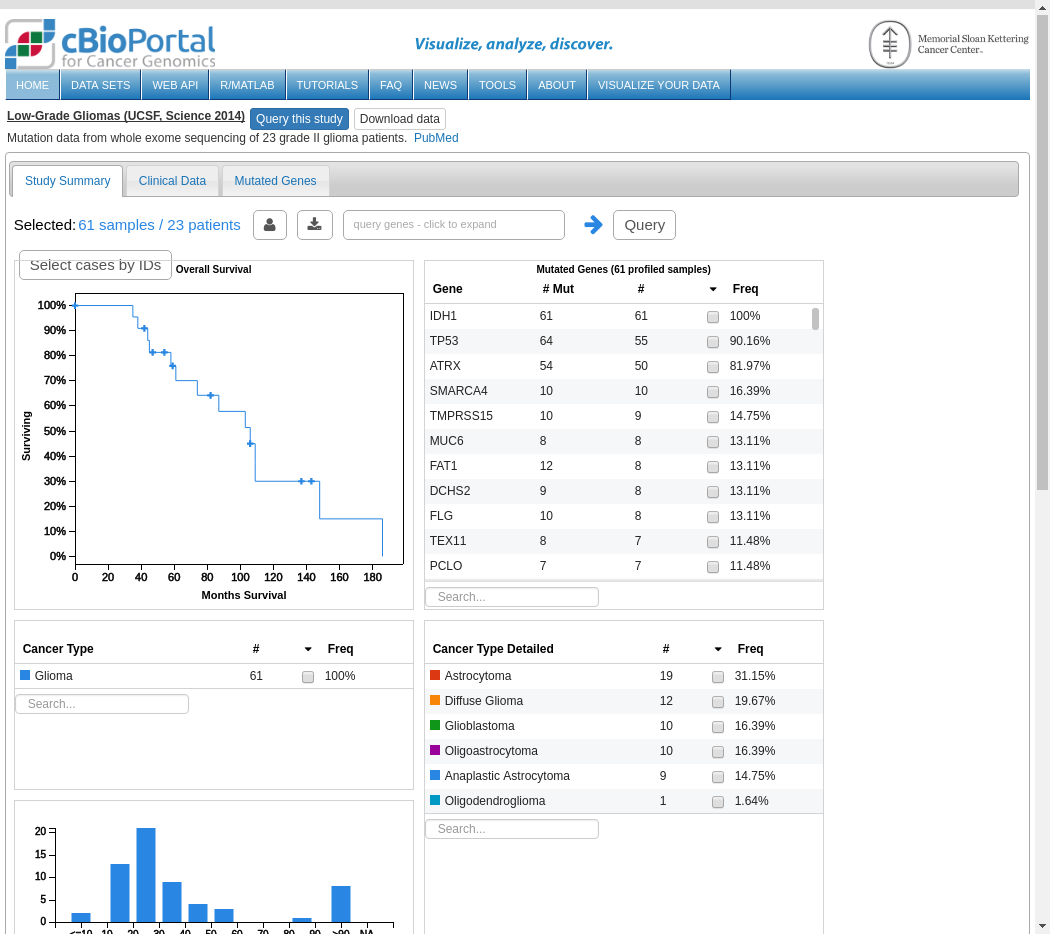
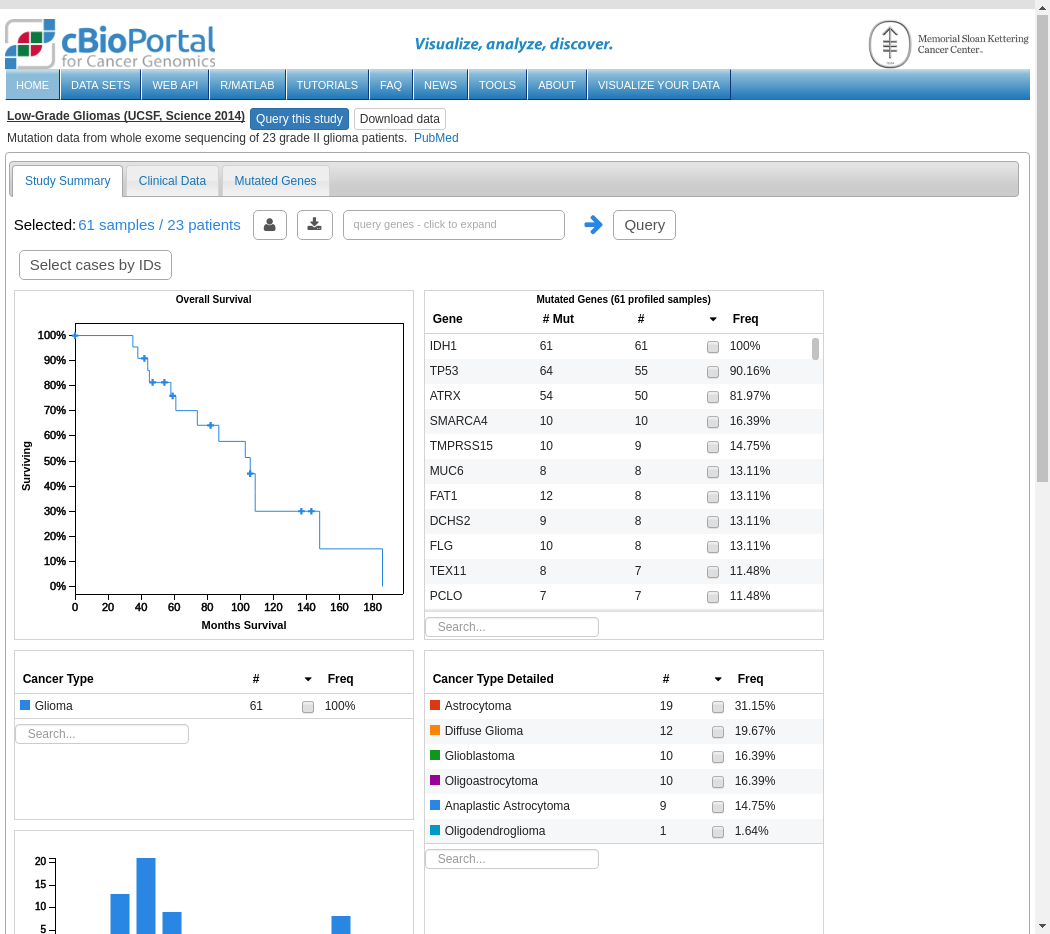
Update header button styles

diff --git a/portal/src/main/webapp/css/dashboard/iviz.css b/portal/src/main/webapp/css/dashboard/iviz.css
@@ -1,1 +1,1 @@
-#complete-screen .breadcrumb_remove:hover,#complete-screen .chart-header .icon:hover,#complete-screen .iviz-header-button:hover{cursor:pointer}body{font-family:sans-serif}#complete-screen #complete-screen.container-fluid{padding-left:0;padding-right:0}#complete-screen .grid-item-w-1{width:195px}#complete-screen .grid-item-w-2{width:400px}#complete-screen .grid-item-h-1{height:170px}#complete-screen .grid-item-h-2{height:350px}#complete-screen .grid{max-width:2200px;top:0}#complete-screen .grid:after{content:'';display:block;clear:both}#complete-screen .grid-item{float:left;border:1px solid #d3d3d3}#complete-screen *{box-sizing:border-box}#complete-screen #main-header{margin:0 0 10px;display:inline-block}#complete-screen #stat{margin-left:10px;margin-top:10px}#complete-screen .hide-content,#complete-screen .view{display:none}#complete-screen .loading{margin:100px 400px;background-image:url(../../images/ajax-loader.gif);background-repeat:no-repeat;background-size:100px 100px;display:inline-block;width:100px;height:100px;content:"";position:relative}#complete-screen .start-loading{opacity:.3}#complete-screen .show-loading{display:block!important}#complete-screen .chart-loader{width:100%;display:none;position:absolute;top:30%}#complete-screen .bar-chart .chart-title-span,#complete-screen .chart-header .chart-title-span,#complete-screen .chart-title-span{font-size:10px;color:#000;font-weight:700;display:block;overflow:hidden;white-space:nowrap;text-overflow:ellipsis;text-align:center}#complete-screen .bar-chart .chart-title-span{margin-bottom:-5px}#complete-screen #iviz-case-select-custom-dialog input[type=radio]{margin:3px}#complete-screen #iviz-case-select-custom-dialog{margin:3px 0}#complete-screen .iviz-hidden{display:none}#complete-screen .show{display:block}#complete-screen .iviz-header-button{float:left;margin:0 5px;font-family:Verdana,Arial,sans-serif;font-size:1.1em;background:0 0;font-weight:400;color:#555;padding:5px 10px;border:1px solid #a9a9a9;border-radius:5px;line-height:18px}#complete-screen #iviz-header-left{display:inline-block}@media screen and (min-width:1200px){#complete-screen #iviz-header-right{float:right;margin:0 7px 0 0}}#complete-screen #iviz_add_chart_chosen{width:250px!important;background-image:none!important}#complete-screen #iviz_add_chart_chosen>a{background-image:none;height:30px;line-height:30px}#complete-screen div.geneAddedNotification,#complete-screen div.geneValidationNotification{width:400px;height:15px;font-size:.8em}#complete-screen #iviz-header-left-1,#complete-screen #iviz-header-left-download{font-size:1.1em}#complete-screen .iviz-header-left-case{font-family:Verdana,Arial,sans-serif;font-size:1.1em;vertical-align:middle;float:left;line-height:30px;margin:0 5px 0 0}#complete-screen .iviz-header-left-case span{float:left}#complete-screen .iviz-header-left-case .name{color:#000}#complete-screen .iviz-header-left-case .content{color:#2986e2;line-height:26px}#complete-screen .iviz-header-left-case .content span{margin:2px}#complete-screen .iviz-header-arrow{line-height:30px;float:left;padding:0 5px}#complete-screen .iviz-header-arrow i{color:#2986e2;font-size:22px}#complete-screen .iviz-button-hover{outline:-webkit-focus-ring-color auto 5px}#complete-screen .iviz-cohort-component .btn{line-height:18px;padding:5px 12px}#complete-screen .pie-qtip table.dataTable td.pieLabelValue{padding:3px 2px 3px 0!important}#complete-screen #breadcrumbs_container{font-size:12px;margin:10px 0;display:inline-block;width:100%}#complete-screen .breadcrumb_container{display:inline;float:left;padding-bottom:5px;margin-right:10px}#complete-screen .breadcrumb_remove{margin:0 5px 0 2px}#complete-screen .breadcrumb_items{display:inline}#complete-screen .breadcrumb_item{font-weight:700;margin-left:5px}#complete-screen .chart-header{margin-top:2px;height:15px}#complete-screen .chart-header .chart-title{width:100%;float:none}#complete-screen .chart-header .chart-operations{display:none}#complete-screen .chart-header .icon{font-size:12px;color:grey;float:left;margin:0 2px}#complete-screen .chart-header .icon.fa.fa-undo{color:#2986e2}#complete-screen .chart-header .download{float:left}#complete-screen .chart-header .bar-x-log{float:left;margin-right:2px;margin-top:3px!important}#complete-screen .chart-header .chart-operations-active{display:block;float:right}#complete-screen .EFDT-table .EFDT-download,#complete-screen .EFDT-table .EFDT-download-btn,#complete-screen .EFDT-table .EFDT-fixed-choose,#complete-screen .EFDT-table .EFDT-show-hide,.iviz-pie-label-qtip .EFDT-table .EFDT-download,.iviz-pie-label-qtip .EFDT-table .EFDT-download-btn,.iviz-pie-label-qtip .EFDT-table .EFDT-fixed-choose,.iviz-pie-label-qtip .EFDT-table .EFDT-show-hide{float:left}#complete-screen .chart-header .chart-title-active{width:calc(100% - 90px);float:left}#complete-screen .chart-header .iviz-chart-header{height:16px;width:100%;text-align:center}#complete-screen .chart-header .dc-chart-drag{color:grey;font-size:12px}#complete-screen .chart-header .dc-chart-drag:hover{cursor:move}.qtip.iviz-pie-qtip{max-width:500px}#complete-screen.container-fluid{padding-left:0;padding-right:0}#complete-screen .EFDT-table,.iviz-pie-label-qtip .EFDT-table{font-family:Verdana,Arial,sans-serif;font-size:12px}#complete-screen .EFDT-table *,.iviz-pie-label-qtip .EFDT-table *{box-sizing:border-box;text-align:left}#complete-screen .EFDT-table input[type=checkbox],#complete-screen .EFDT-table input[type=radio],.iviz-pie-label-qtip .EFDT-table input[type=checkbox],.iviz-pie-label-qtip .EFDT-table input[type=radio]{margin:1px 0 0}#complete-screen .EFDT-table .EFDT-top-btn,.iviz-pie-label-qtip .EFDT-table .EFDT-top-btn{margin-right:5px}#complete-screen .EFDT-table .dropdown-checkbox-toggle,.iviz-pie-label-qtip .EFDT-table .dropdown-checkbox-toggle{color:#333;background-color:#fff;display:inline-block;padding:6px 12px;margin-bottom:0;font-size:14px;font-weight:400;line-height:1.42857143;text-align:center;white-space:nowrap;vertical-align:middle;-ms-touch-action:manipulation;touch-action:manipulation;cursor:pointer;-webkit-user-select:none;-moz-user-select:none;-ms-user-select:none;user-select:none;background-image:none;border:1px solid #ccc;border-radius:4px}#complete-screen .EFDT-table .EFDT-header-filters-reset,.iviz-pie-label-qtip .EFDT-table .EFDT-header-filters-reset{cursor:pointer;text-decoration:underline}#complete-screen .EFDT-table .EFDT-header-filters,.iviz-pie-label-qtip .EFDT-table .EFDT-header-filters{margin:3px 0}#complete-screen .EFDT-table .EFDT-header-filters input,.iviz-pie-label-qtip .EFDT-table .EFDT-header-filters input{height:20px;font-size:12px;line-height:12px}#complete-screen .EFDT-table .EFDT-finish-selection-button,.iviz-pie-label-qtip .EFDT-table .EFDT-finish-selection-button{float:right;margin:3px 3px 3px 0}#complete-screen .EFDT-table .EFDT-finish-selection-button .btn,.iviz-pie-label-qtip .EFDT-table .EFDT-finish-selection-button .btn{color:#fff;background-color:#2986e2;border:0}#complete-screen .EFDT-table .EFDT-finish-selection-button .btn:hover,.iviz-pie-label-qtip .EFDT-table .EFDT-finish-selection-button .btn:hover{color:#fff;background-color:#064785}#complete-screen .EFDT-table .EFDT-header,.iviz-pie-label-qtip .EFDT-table .EFDT-header{text-align:center;vertical-align:middle}#complete-screen .EFDT-table .EFDT-header .EFDT-header-sort,.iviz-pie-label-qtip .EFDT-table .EFDT-header .EFDT-header-sort{width:100%;padding:3px 8px;display:inline-block;color:#000;white-space:nowrap}#complete-screen .EFDT-table .EFDT-header .EFDT-header-sort .EFDT-header-sort-content,.iviz-pie-label-qtip .EFDT-table .EFDT-header .EFDT-header-sort .EFDT-header-sort-content{float:left}#complete-screen .EFDT-table .EFDT-header .EFDT-header-sort .EFDT-header-sort-icon,.iviz-pie-label-qtip .EFDT-table .EFDT-header .EFDT-header-sort .EFDT-header-sort-icon{float:right}#complete-screen .EFDT-table .EFDT-filter,#complete-screen .EFDT-table .EFDT-result-info,#query-by-gene-span,.iviz-pie-label-qtip .EFDT-table .EFDT-filter,.iviz-pie-label-qtip .EFDT-table .EFDT-result-info{float:left}#complete-screen .EFDT-table .EFDT-header .EFDT-header-sort:hover,.iviz-pie-label-qtip .EFDT-table .EFDT-header .EFDT-header-sort:hover{cursor:pointer}#complete-screen .EFDT-table .EFDT-result-info-content,.iviz-pie-label-qtip .EFDT-table .EFDT-result-info-content{display:inline-block;white-space:nowrap;padding:6px 12px;font-size:14px;line-height:1.428571429}#complete-screen .EFDT-table .gene-selected,.iviz-pie-label-qtip .EFDT-table .gene-selected{font-weight:700}#complete-screen .EFDT-table .EFDT-cell .gene:hover,.iviz-pie-label-qtip .EFDT-table .EFDT-cell .gene:hover{border:2px solid #1974b8;cursor:pointer}#complete-screen .EFDT-table .EFDT-cell .gene.gene-selected,.iviz-pie-label-qtip .EFDT-table .EFDT-cell .gene.gene-selected{font-weight:700}#complete-screen .EFDT-table .EFDT-cell .alt-type-red,.iviz-pie-label-qtip .EFDT-table .EFDT-cell .alt-type-red{font-weight:700;color:red}#complete-screen .EFDT-table .EFDT-cell .alt-type-blue,.iviz-pie-label-qtip .EFDT-table .EFDT-cell .alt-type-blue{font-weight:700;color:#00f}#complete-screen .EFDT-table .EFDT-cell .qval-icon,.iviz-pie-label-qtip .EFDT-table .EFDT-cell .qval-icon{margin-bottom:4px;width:10px}#complete-screen .EFDT-table .EFDT-cell-full,.iviz-pie-label-qtip .EFDT-table .EFDT-cell-full{width:100%}#complete-screen .EFDT-table .row-selected,.iviz-pie-label-qtip .EFDT-table .row-selected{background-color:#d3d3d3}#complete-screen .EFDT-table .public_fixedDataTable_header,#complete-screen .EFDT-table .public_fixedDataTable_header .public_fixedDataTableCell_main,.iviz-pie-label-qtip .EFDT-table .public_fixedDataTable_header,.iviz-pie-label-qtip .EFDT-table .public_fixedDataTable_header .public_fixedDataTableCell_main{background-color:#fff;background-image:none}#complete-screen .EFDT-table .fixedDataTableCellLayout_main,#complete-screen .EFDT-table .fixedDataTableLayout_main,.iviz-pie-label-qtip .EFDT-table .fixedDataTableCellLayout_main,.iviz-pie-label-qtip .EFDT-table .fixedDataTableLayout_main{border:0}#complete-screen .EFDT-table .public_fixedDataTableCell_cellContent,.iviz-pie-label-qtip .EFDT-table .public_fixedDataTableCell_cellContent{line-height:13px;padding:6px 5px}#ruler{visibility:hidden;white-space:nowrap}#complete-screen textarea{box-sizing:content-box}textarea.expand{margin:0 5px;font-family:Verdana,Arial,sans-serif;background:0 0;font-weight:400;color:#a9a9a9;padding:5px 10px;border:1px solid #a9a9a9;border-radius:5px;outline-offset:-2px}textarea.expandFocusOut{width:200px;font-size:.8em;height:18px}textarea.expandFocusIn{height:5em;width:200px;font-size:1em}#iviz-case-select-custom-dialog{width:270px}#iviz-case-select-custom-dialog input[type=radio]{margin:3px}.qtip-wide{max-width:380px!important}
+#complete-screen .breadcrumb_remove:hover,#complete-screen .chart-header .icon:hover,#complete-screen .iviz-header-button:hover{cursor:pointer}body{font-family:sans-serif}#complete-screen #complete-screen.container-fluid{padding-left:0;padding-right:0}#complete-screen .grid-item-w-1{width:195px}#complete-screen .grid-item-w-2{width:400px}#complete-screen .grid-item-h-1{height:170px}#complete-screen .grid-item-h-2{height:350px}#complete-screen .grid{max-width:2200px;top:0}#complete-screen .grid:after{content:'';display:block;clear:both}#complete-screen .grid-item{float:left;border:1px solid #d3d3d3}#complete-screen *{box-sizing:border-box}#complete-screen #main-header{margin:0 0 10px;display:inline-block}#complete-screen #stat{margin-left:10px;margin-top:10px}#complete-screen .hide-content,#complete-screen .view{display:none}#complete-screen .loading{margin:100px 400px;background-image:url(../../images/ajax-loader.gif);background-repeat:no-repeat;background-size:100px 100px;display:inline-block;width:100px;height:100px;content:"";position:relative}#complete-screen .start-loading{opacity:.3}#complete-screen .show-loading{display:block!important}#complete-screen .chart-loader{width:100%;display:none;position:absolute;top:30%}#complete-screen .bar-chart .chart-title-span,#complete-screen .chart-header .chart-title-span,#complete-screen .chart-title-span{font-size:10px;color:#000;font-weight:700;display:block;overflow:hidden;white-space:nowrap;text-overflow:ellipsis;text-align:center}#complete-screen .bar-chart .chart-title-span{margin-bottom:-5px}#complete-screen #iviz-case-select-custom-dialog input[type=radio]{margin:3px}#complete-screen #iviz-case-select-custom-dialog{margin:3px 0}#complete-screen .iviz-hidden{display:none}#complete-screen .show{display:block}#complete-screen .iviz-header-button{float:left;margin:0 5px;font-family:Verdana,Arial,sans-serif;font-size:1.1em;background:0 0;font-weight:400;color:#555;padding:5px 10px;border:1px solid #a9a9a9;border-radius:5px;line-height:18px}#complete-screen #iviz-header-left{display:inline-block}@media screen and (min-width:1200px){#complete-screen #iviz-header-right{float:right;margin:0 7px 0 0}}#complete-screen #iviz_add_chart_chosen{width:250px!important;background-image:none!important;margin-top:-4px}#complete-screen #iviz_add_chart_chosen>a{background-image:none;height:30px;line-height:28px}#complete-screen div.geneAddedNotification,#complete-screen div.geneValidationNotification{width:400px;height:15px;font-size:.8em}#complete-screen #iviz-header-left-1,#complete-screen #iviz-header-left-download{font-size:1.1em}#complete-screen .iviz-header-left-case{font-family:Verdana,Arial,sans-serif;font-size:1.1em;vertical-align:middle;float:left;line-height:30px;margin:0 5px 0 0}#complete-screen .iviz-header-left-case span{float:left}#complete-screen .iviz-header-left-case .name{color:#000}#complete-screen .iviz-header-left-case .content{color:#2986e2;line-height:26px}#complete-screen .iviz-header-left-case .content span{margin:2px}#complete-screen .iviz-header-arrow{line-height:30px;float:left;padding:0 5px}#complete-screen .iviz-header-arrow i{color:#2986e2;font-size:22px}#complete-screen .iviz-button-hover{outline:-webkit-focus-ring-color auto 5px}#complete-screen .iviz-cohort-component .btn{line-height:18px;padding:5px 12px}#complete-screen .pie-qtip table.dataTable td.pieLabelValue{padding:3px 2px 3px 0!important}#complete-screen #breadcrumbs_container{font-size:12px;margin:10px 0;display:inline-block;width:100%}#complete-screen .breadcrumb_container{display:inline;float:left;padding-bottom:5px;margin-right:10px}#complete-screen .breadcrumb_remove{margin:0 5px 0 2px}#complete-screen .breadcrumb_items{display:inline}#complete-screen .breadcrumb_item{font-weight:700;margin-left:5px}#complete-screen .chart-header{margin-top:2px;height:15px}#complete-screen .chart-header .chart-title{width:100%;float:none}#complete-screen .chart-header .chart-operations{display:none}#complete-screen .chart-header .icon{font-size:12px;color:grey;float:left;margin:0 2px}#complete-screen .chart-header .icon.fa.fa-undo{color:#2986e2}#complete-screen .chart-header .download{float:left}#complete-screen .chart-header .bar-x-log{float:left;margin-right:2px;margin-top:3px!important}#complete-screen .chart-header .chart-operations-active{display:block;float:right}#complete-screen .EFDT-table .EFDT-download,#complete-screen .EFDT-table .EFDT-download-btn,#complete-screen .EFDT-table .EFDT-fixed-choose,#complete-screen .EFDT-table .EFDT-show-hide,.iviz-pie-label-qtip .EFDT-table .EFDT-download,.iviz-pie-label-qtip .EFDT-table .EFDT-download-btn,.iviz-pie-label-qtip .EFDT-table .EFDT-fixed-choose,.iviz-pie-label-qtip .EFDT-table .EFDT-show-hide{float:left}#complete-screen .chart-header .chart-title-active{width:calc(100% - 90px);float:left}#complete-screen .chart-header .iviz-chart-header{height:16px;width:100%;text-align:center}#complete-screen .chart-header .dc-chart-drag{color:grey;font-size:12px}#complete-screen .chart-header .dc-chart-drag:hover{cursor:move}.qtip.iviz-pie-qtip{max-width:500px}#complete-screen.container-fluid{padding-left:0;padding-right:0}#complete-screen .EFDT-table,.iviz-pie-label-qtip .EFDT-table{font-family:Verdana,Arial,sans-serif;font-size:12px}#complete-screen .EFDT-table *,.iviz-pie-label-qtip .EFDT-table *{box-sizing:border-box;text-align:left}#complete-screen .EFDT-table input[type=checkbox],#complete-screen .EFDT-table input[type=radio],.iviz-pie-label-qtip .EFDT-table input[type=checkbox],.iviz-pie-label-qtip .EFDT-table input[type=radio]{margin:1px 0 0}#complete-screen .EFDT-table .EFDT-top-btn,.iviz-pie-label-qtip .EFDT-table .EFDT-top-btn{margin-right:5px}#complete-screen .EFDT-table .dropdown-checkbox-toggle,.iviz-pie-label-qtip .EFDT-table .dropdown-checkbox-toggle{color:#333;background-color:#fff;display:inline-block;padding:6px 12px;margin-bottom:0;font-size:14px;font-weight:400;line-height:1.42857143;text-align:center;white-space:nowrap;vertical-align:middle;-ms-touch-action:manipulation;touch-action:manipulation;cursor:pointer;-webkit-user-select:none;-moz-user-select:none;-ms-user-select:none;user-select:none;background-image:none;border:1px solid #ccc;border-radius:4px}#complete-screen .EFDT-table .EFDT-header-filters-reset,.iviz-pie-label-qtip .EFDT-table .EFDT-header-filters-reset{cursor:pointer;text-decoration:underline}#complete-screen .EFDT-table .EFDT-header-filters,.iviz-pie-label-qtip .EFDT-table .EFDT-header-filters{margin:3px 0}#complete-screen .EFDT-table .EFDT-header-filters input,.iviz-pie-label-qtip .EFDT-table .EFDT-header-filters input{height:20px;font-size:12px;line-height:12px}#complete-screen .EFDT-table .EFDT-finish-selection-button,.iviz-pie-label-qtip .EFDT-table .EFDT-finish-selection-button{float:right;margin:3px 3px 3px 0}#complete-screen .EFDT-table .EFDT-finish-selection-button .btn,.iviz-pie-label-qtip .EFDT-table .EFDT-finish-selection-button .btn{color:#fff;background-color:#2986e2;border:0}#complete-screen .EFDT-table .EFDT-finish-selection-button .btn:hover,.iviz-pie-label-qtip .EFDT-table .EFDT-finish-selection-button .btn:hover{color:#fff;background-color:#064785}#complete-screen .EFDT-table .EFDT-header,.iviz-pie-label-qtip .EFDT-table .EFDT-header{text-align:center;vertical-align:middle}#complete-screen .EFDT-table .EFDT-header .EFDT-header-sort,.iviz-pie-label-qtip .EFDT-table .EFDT-header .EFDT-header-sort{width:100%;padding:3px 8px;display:inline-block;color:#000;white-space:nowrap}#complete-screen .EFDT-table .EFDT-header .EFDT-header-sort .EFDT-header-sort-content,.iviz-pie-label-qtip .EFDT-table .EFDT-header .EFDT-header-sort .EFDT-header-sort-content{float:left}#complete-screen .EFDT-table .EFDT-header .EFDT-header-sort .EFDT-header-sort-icon,.iviz-pie-label-qtip .EFDT-table .EFDT-header .EFDT-header-sort .EFDT-header-sort-icon{float:right}#complete-screen .EFDT-table .EFDT-filter,#complete-screen .EFDT-table .EFDT-result-info,#query-by-gene-span,.iviz-pie-label-qtip .EFDT-table .EFDT-filter,.iviz-pie-label-qtip .EFDT-table .EFDT-result-info{float:left}#complete-screen .EFDT-table .EFDT-header .EFDT-header-sort:hover,.iviz-pie-label-qtip .EFDT-table .EFDT-header .EFDT-header-sort:hover{cursor:pointer}#complete-screen .EFDT-table .EFDT-result-info-content,.iviz-pie-label-qtip .EFDT-table .EFDT-result-info-content{display:inline-block;white-space:nowrap;padding:6px 12px;font-size:14px;line-height:1.428571429}#complete-screen .EFDT-table .gene-selected,.iviz-pie-label-qtip .EFDT-table .gene-selected{font-weight:700}#complete-screen .EFDT-table .EFDT-cell .gene:hover,.iviz-pie-label-qtip .EFDT-table .EFDT-cell .gene:hover{border:2px solid #1974b8;cursor:pointer}#complete-screen .EFDT-table .EFDT-cell .gene.gene-selected,.iviz-pie-label-qtip .EFDT-table .EFDT-cell .gene.gene-selected{font-weight:700}#complete-screen .EFDT-table .EFDT-cell .alt-type-red,.iviz-pie-label-qtip .EFDT-table .EFDT-cell .alt-type-red{font-weight:700;color:red}#complete-screen .EFDT-table .EFDT-cell .alt-type-blue,.iviz-pie-label-qtip .EFDT-table .EFDT-cell .alt-type-blue{font-weight:700;color:#00f}#complete-screen .EFDT-table .EFDT-cell .qval-icon,.iviz-pie-label-qtip .EFDT-table .EFDT-cell .qval-icon{margin-bottom:4px;width:10px}#complete-screen .EFDT-table .EFDT-cell-full,.iviz-pie-label-qtip .EFDT-table .EFDT-cell-full{width:100%}#complete-screen .EFDT-table .row-selected,.iviz-pie-label-qtip .EFDT-table .row-selected{background-color:#d3d3d3}#complete-screen .EFDT-table .public_fixedDataTable_header,#complete-screen .EFDT-table .public_fixedDataTable_header .public_fixedDataTableCell_main,.iviz-pie-label-qtip .EFDT-table .public_fixedDataTable_header,.iviz-pie-label-qtip .EFDT-table .public_fixedDataTable_header .public_fixedDataTableCell_main{background-color:#fff;background-image:none}#complete-screen .EFDT-table .fixedDataTableCellLayout_main,#complete-screen .EFDT-table .fixedDataTableLayout_main,.iviz-pie-label-qtip .EFDT-table .fixedDataTableCellLayout_main,.iviz-pie-label-qtip .EFDT-table .fixedDataTableLayout_main{border:0}#complete-screen .EFDT-table .public_fixedDataTableCell_cellContent,.iviz-pie-label-qtip .EFDT-table .public_fixedDataTableCell_cellContent{line-height:13px;padding:6px 5px}#ruler{visibility:hidden;white-space:nowrap}#complete-screen textarea{box-sizing:content-box}textarea.expand{margin:0 5px;font-family:Verdana,Arial,sans-serif;background:0 0;font-weight:400;color:#a9a9a9;padding:5px 10px;border:1px solid #a9a9a9;border-radius:5px;outline-offset:-2px}textarea.expandFocusOut{width:200px;font-size:.8em;height:18px}textarea.expandFocusIn{height:5em;width:200px;font-size:1em}#iviz-case-select-custom-dialog{width:270px}#iviz-case-select-custom-dialog input[type=radio]{margin:3px}.qtip-wide{max-width:380px!important}
